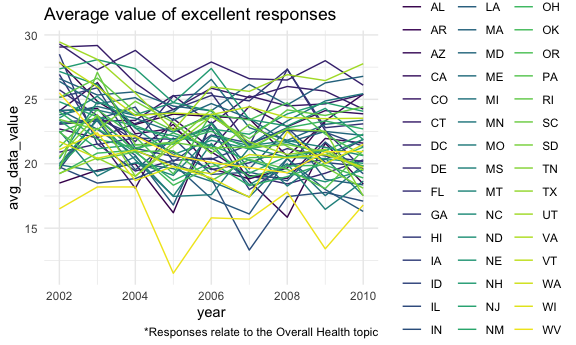
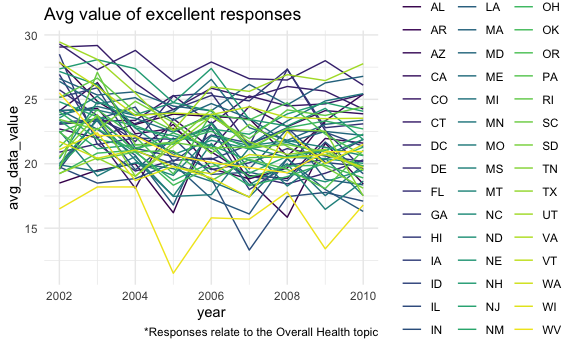
Added message commands. Ajusted label angles

Changed region(s): [[0.0938, 0.029, 0.5938, 0.087]]

diff --git a/p8105_hw3_sdc2157.md b/p8105_hw3_sdc2157.md
@@ -248,12 +248,9 @@ brfss_clean |>
   ggplot(aes(x = year, y = avg_data_value, group = state, color = state)) +
   geom_line() +
   labs(
-    title = "Average value of excellent responses",
+    title = "Avg value of excellent responses",
     caption = "*Responses relate to the Overall Health topic")
 ```
-
-    ## `summarise()` has grouped output by 'state'. You can override using the
-    ## `.groups` argument.
 
 <img src="p8105_hw3_sdc2157_files/figure-gfm/excellent responses plot-1.png" width="90%" />
 
@@ -272,7 +269,8 @@ brfss_clean |>
   facet_grid(. ~ year) +
   labs(
     title = "Distributions of data values for responses in NY in 2006 & 2010",
-    caption = "*Responses relate to the Overall Health topic")
+    caption = "*Responses relate to the Overall Health topic") +
+  theme(axis.text.x = element_text(angle=45, vjust=1, hjust=1))
 ```
 
 <img src="p8105_hw3_sdc2157_files/figure-gfm/ny data values plot-1.png" width="90%" />
@@ -326,9 +324,6 @@ combined_accel |>
   knitr::kable(digits = 2)
 ```
 
-    ## `summarise()` has grouped output by 'education'. You can override using the
-    ## `.groups` argument.
-
 | education              | male | female |
 |:-----------------------|-----:|-------:|
 | Less than high school  |   27 |     28 |
@@ -371,10 +366,9 @@ combined_accel |>
     y = "Total Activity (MIMS)",
     color = "Sex") +
   facet_grid(education ~ .) +
-  theme(legend.position = "bottom")
+  theme(legend.position = "bottom") +
+  theme(strip.text.y = element_text(angle = 0))
 ```
-
-    ## `geom_smooth()` using method = 'loess' and formula = 'y ~ x'
 
 <img src="p8105_hw3_sdc2157_files/figure-gfm/total activity plot-1.png" width="90%" />
 
@@ -407,8 +401,6 @@ combined_accel |>
   facet_grid(. ~ education) +
   theme(legend.position = "bottom")
 ```
-
-    ## `geom_smooth()` using method = 'gam' and formula = 'y ~ s(x, bs = "cs")'
 
 <img src="p8105_hw3_sdc2157_files/figure-gfm/mims over time plot-1.png" width="90%" />
 
